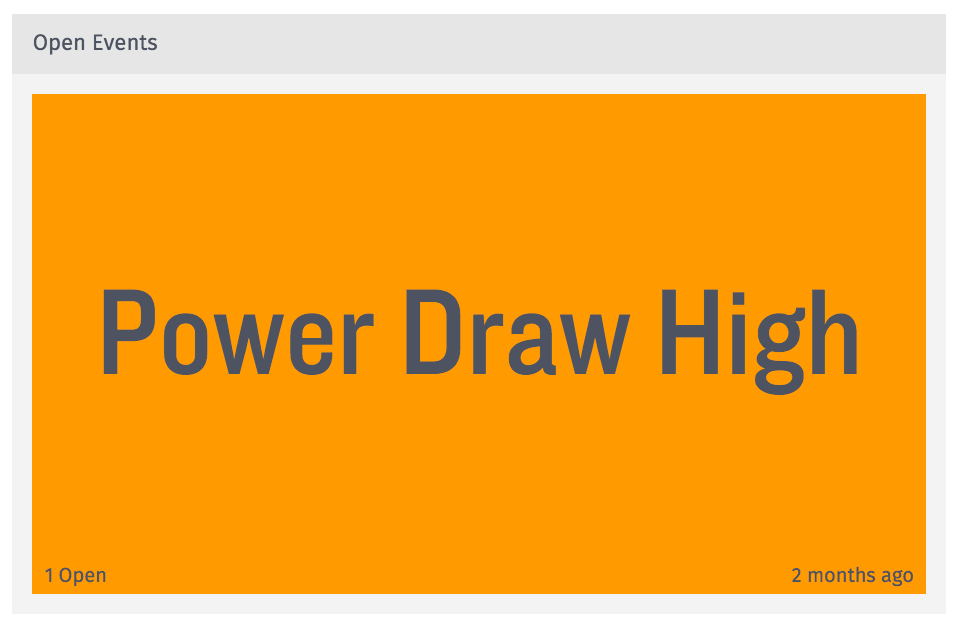
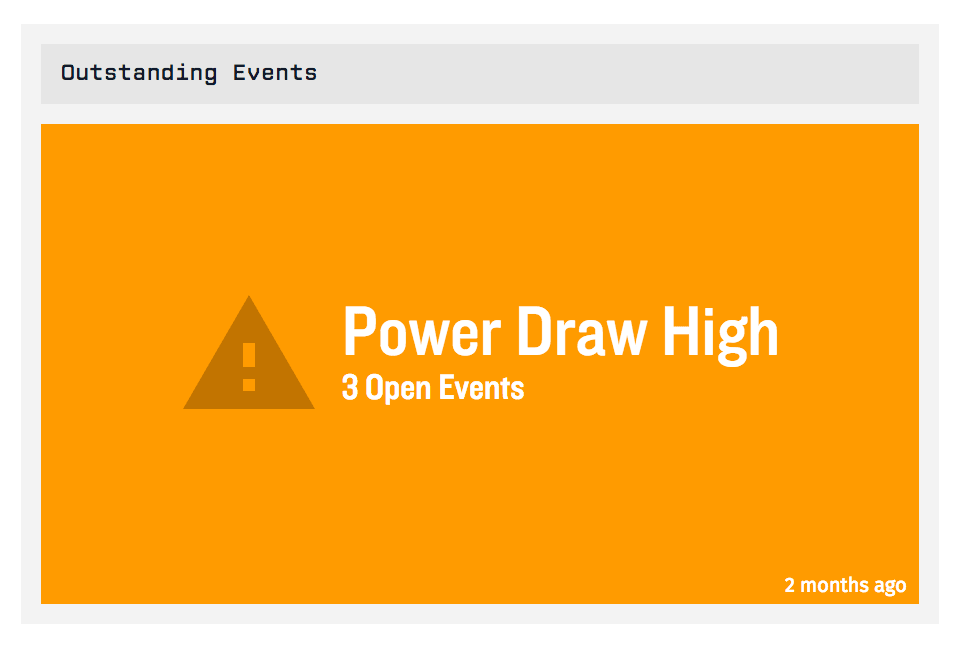
open event indicator updates

Changed region(s): [[0.0, 0.0, 1.0, 0.9682], [0.0938, 0.4538, 0.9062, 0.6354]]

diff --git a/docs/dashboards/open-event-indicator.md b/docs/dashboards/open-event-indicator.md
@@ -6,10 +6,21 @@ The open event indicator block allows you to display the most important currentl
 
 ## Configuration
 
-The block has two configuration properties - choosing the application which should be watched for events, and an optional event filter.  If the event filter is left blank, the events are not filtered.
+The block has two configuration properties - choosing the application that should be watched for events, and an optional event filter.  If the event filter is left blank, the events are not filtered.
 
 ![External Config](/images/dashboards/open-event-indicator-config.png "External Config")
 
 ## Behavior
 
-If no events are currently open, the block is green and displays the text "OK".  If there is an "Info" level event open, the block is green and displays the subject of the open event.  If there is a "Warning" level event open, the block is orange and displays the subject of the open event.  If there is a "Error" or "Critical" level event open, the block is red and displays the subject of the open event.
+The block looks through all open events within the selected application and displays the most "severe" event it finds, searching for and displaying the first open event it finds in the following order ...
+
+*   If the event's level is **"Critical"**, the block turns red and display an "error" icon.
+*   **"Error"** events display in the same manner as critical events.
+*   A **"Warning"** event will display against an orange background and with a "warning" icon.
+*   If the event is of an **"Info"** level, the block will be blue with an "info" icon.
+
+If there is more than one event at any of the given levels, the most recently created event will display within the block.
+
+If the application has **no open events**, the block will be green with an "OK" icon and message.
+
+The block will also display a count of all open events within the application.
